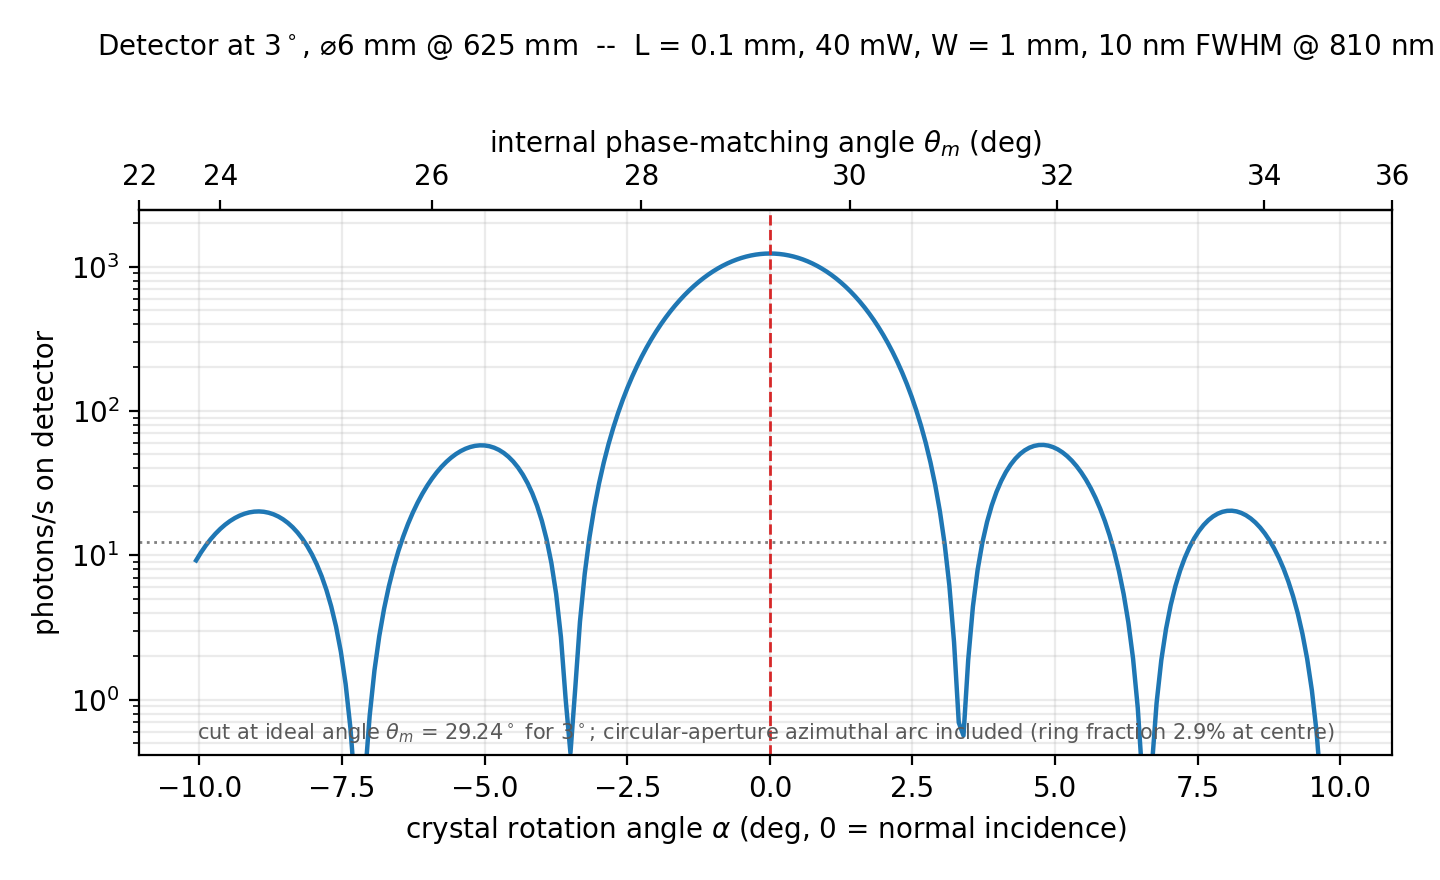
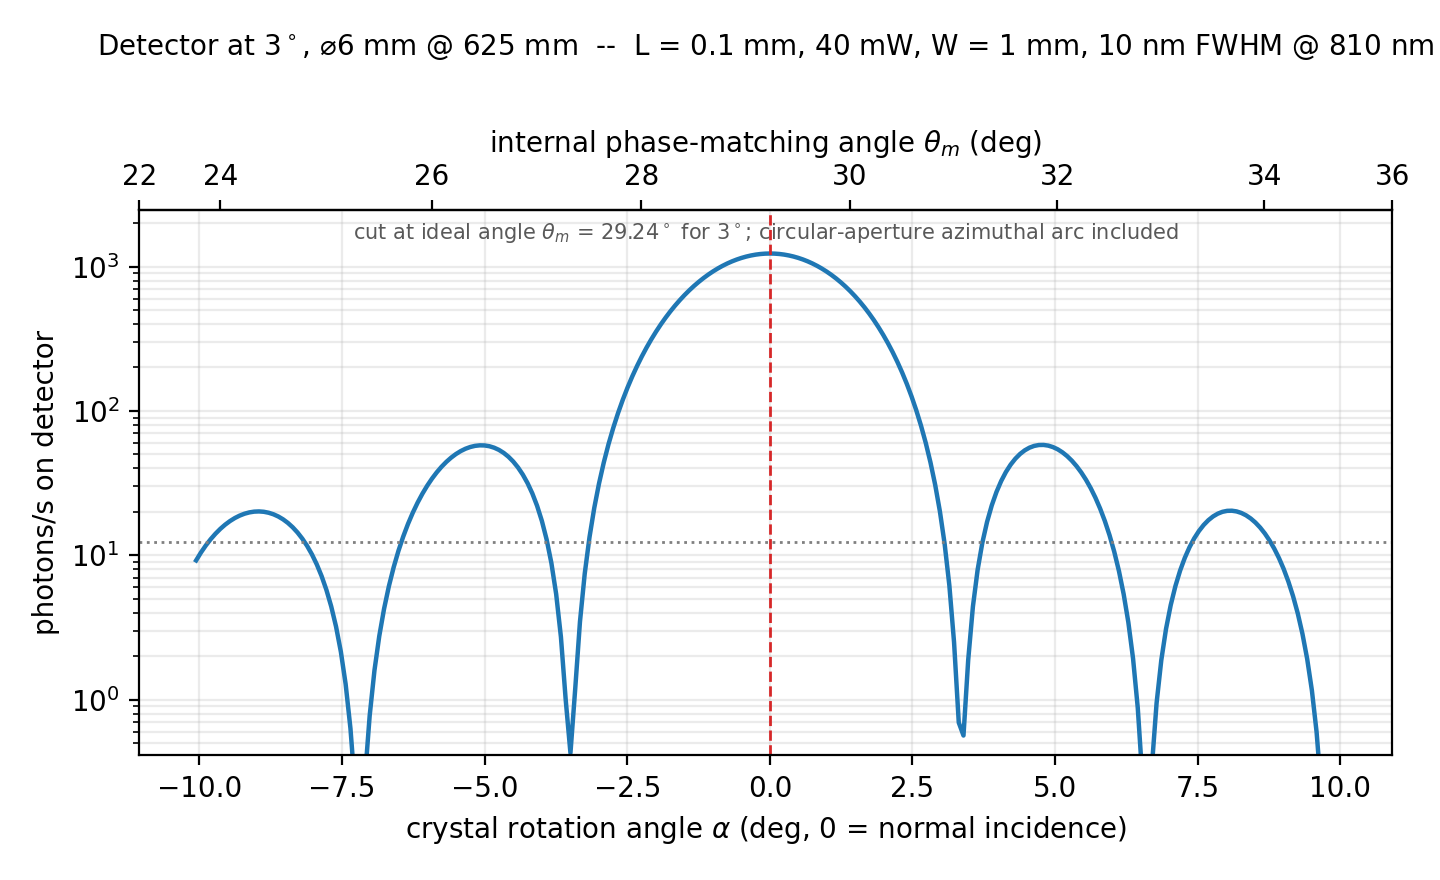
Detector scan (my setup): move gray note to top, drop ring fraction
Move the gray annotation to the top of the axes box (readable on white
space above the curve) via a new subtitle_va param on draw_panel; other
scan panels keep the bottom placement. Remove the ring-fraction mention
from the subtitle, keeping the azimuthal-arc note.

diff --git a/calculations/src/detector_scan_common.py b/calculations/src/detector_scan_common.py
@@ -90,9 +90,11 @@ def summarize(header, alphas, tms_deg, data, unit="/s"):
     return ipk, thresh
 
 
-def draw_panel(ax, alphas, data, ipk, thresh, ylabel, title, subtitle, a2t, t2a):
+def draw_panel(ax, alphas, data, ipk, thresh, ylabel, title, subtitle, a2t, t2a,
+               subtitle_va="bottom"):
     """Standard scan panel: semilog count vs alpha, dashed line at the peak,
-    dotted line at the 2-orders-down threshold, secondary theta_m axis on top."""
+    dotted line at the 2-orders-down threshold, secondary theta_m axis on top.
+    subtitle_va="top" moves the gray annotation to the top of the axes box."""
     ax.semilogy(alphas, data, color="C0", lw=1.6)
     ax.axhline(thresh, color="0.5", ls=":", lw=1)
     ax.axvline(alphas[ipk], color="C3", ls="--", lw=1)
@@ -100,8 +102,9 @@ def draw_panel(ax, alphas, data, ipk, thresh, ylabel, title, subtitle, a2t, t2a)
     ax.grid(True, which="both", alpha=0.25)
     ax.set_xlabel(r"crystal rotation angle $\alpha$ (deg, 0 = normal incidence)")
     ax.set_title(title, pad=26)
-    ax.text(0.5, 0.02, subtitle, transform=ax.transAxes, ha="center",
-            va="bottom", fontsize=7.5, color="0.35")
+    sub_y = 0.98 if subtitle_va == "top" else 0.02
+    ax.text(0.5, sub_y, subtitle, transform=ax.transAxes, ha="center",
+            va=subtitle_va, fontsize=7.5, color="0.35")
     ax.set_ylim(data.max() / 3e3, data.max() * 2)
     sec = ax.secondary_xaxis("top", functions=(a2t, t2a))
     sec.set_xlabel(r"internal phase-matching angle $\theta_m$ (deg)")

diff --git a/calculations/src/detector_counts.py b/calculations/src/detector_counts.py
@@ -235,9 +235,8 @@ def main():
                f"{FILTER_FWHM*1e9:.0f} nm FWHM @ {center*1e9:.0f} nm"),
         subtitle=(f"cut at ideal angle $\\theta_m$ = {cut:.2f}$^\\circ$ for "
                   f"{THETA_S_DEG:.0f}$^\\circ$; circular-aperture azimuthal "
-                  f"arc included (ring fraction "
-                  f"{2*r/(2*np.pi*D*np.tan(np.radians(THETA_S_DEG))):.1%} at centre)"),
-        a2t=a2t, t2a=t2a)
+                  f"arc included"),
+        a2t=a2t, t2a=t2a, subtitle_va="top")
     ax.title.set_fontsize(10)            # long parameter line; keep it inside
     fig.tight_layout()
     fig.savefig(OUTFILE, dpi=200)